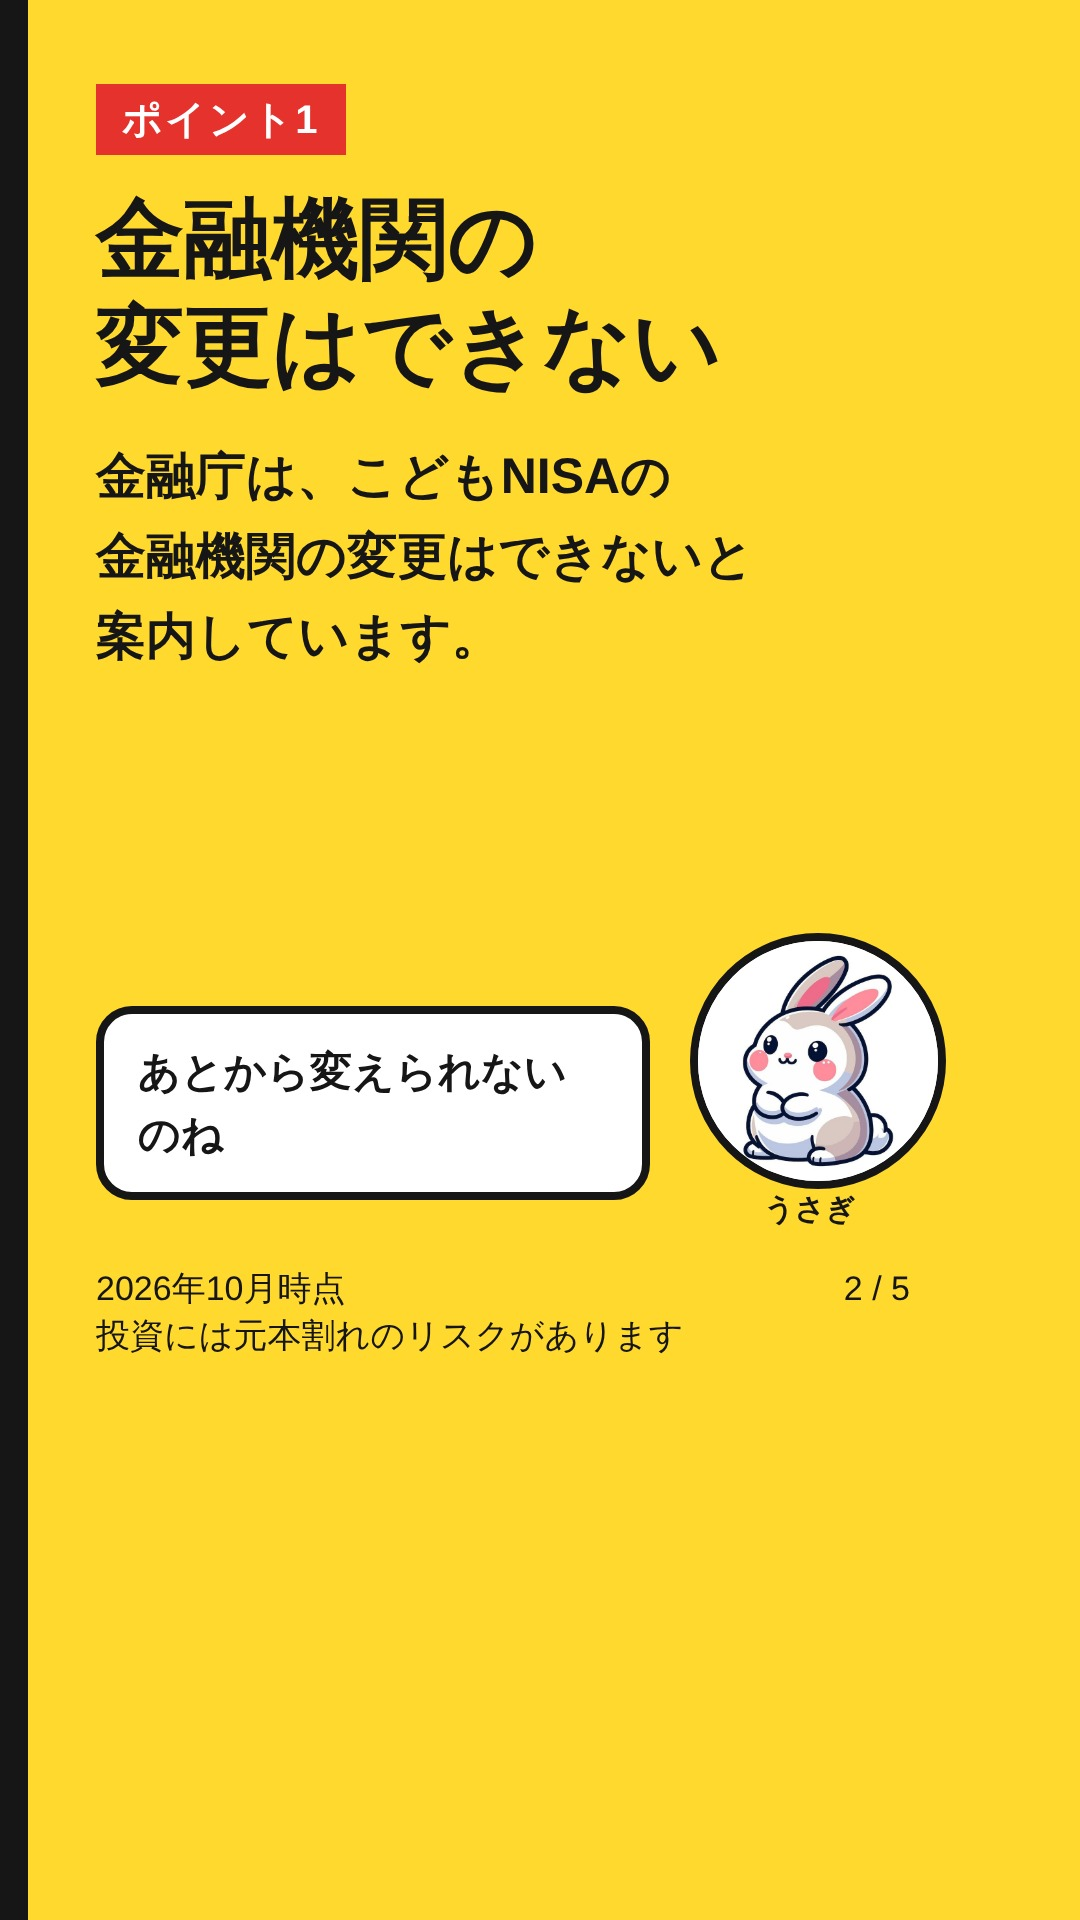
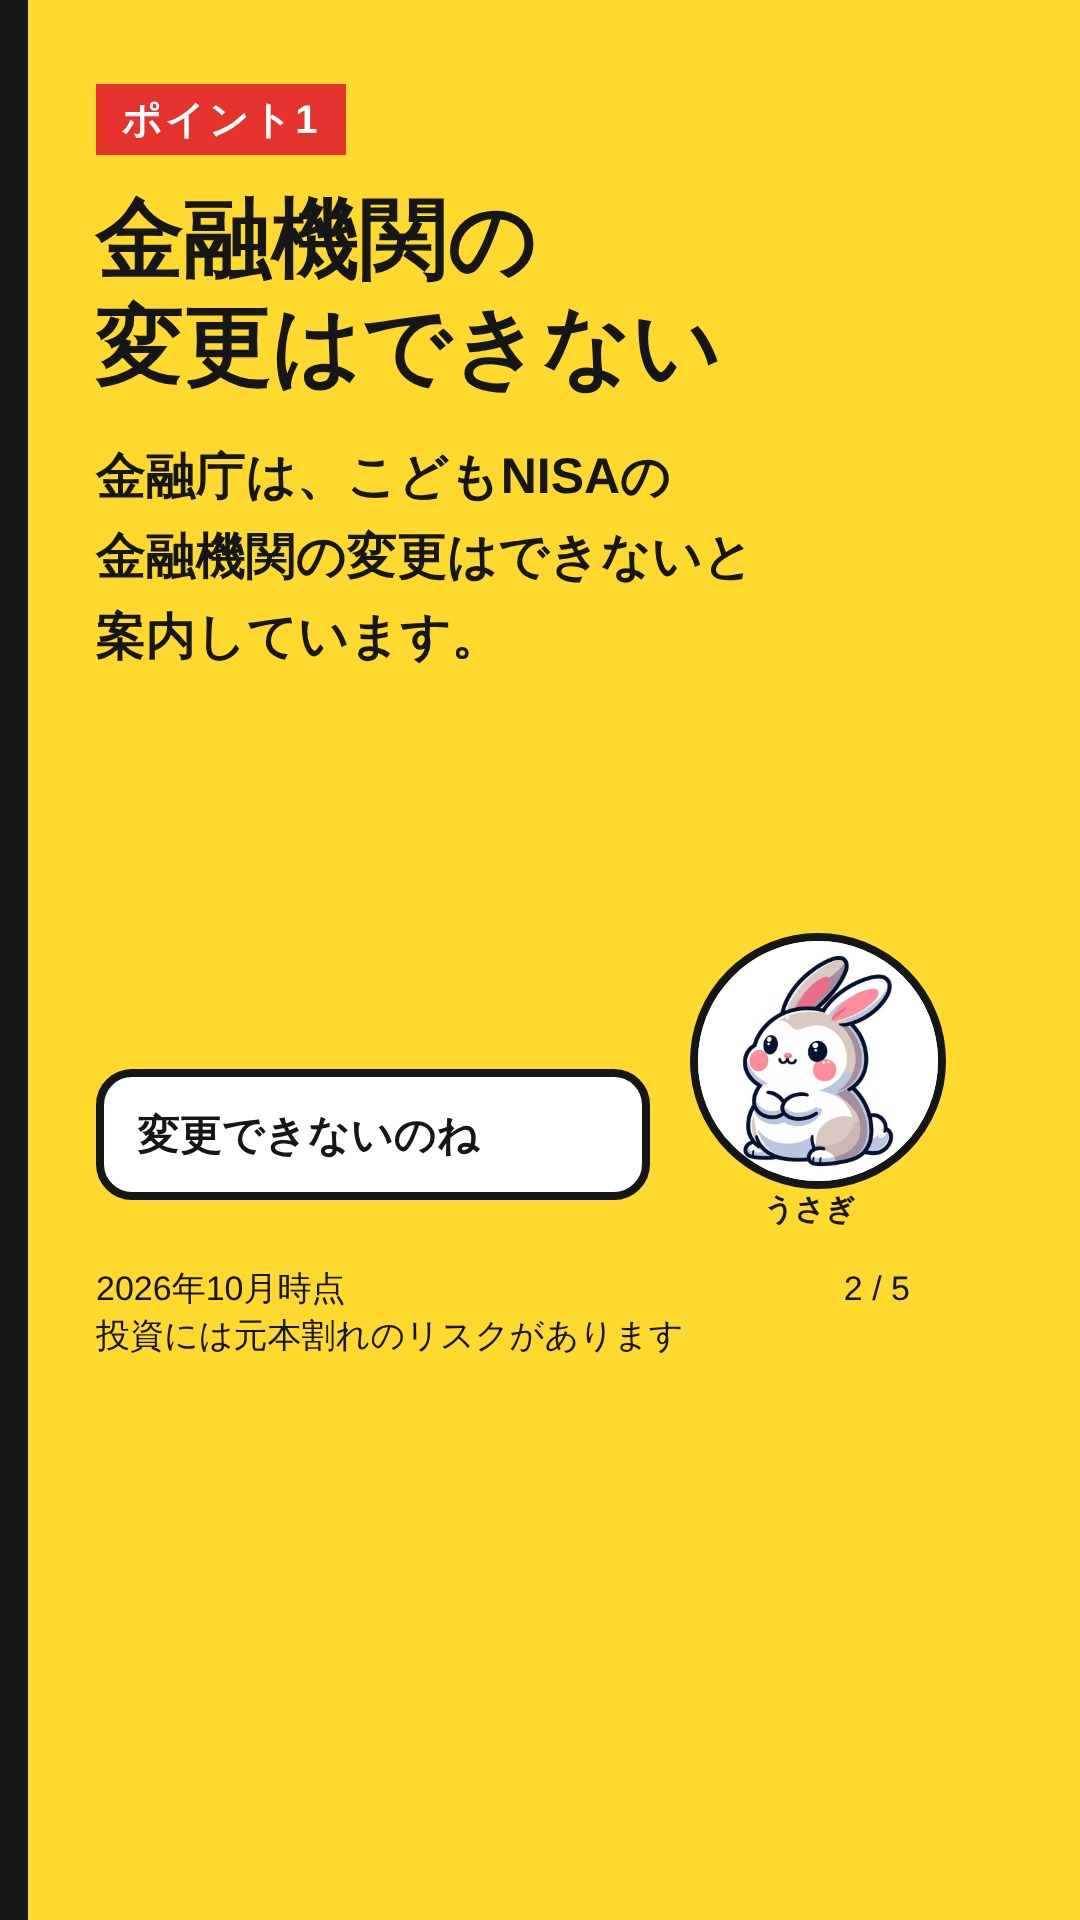
TikTok素材07: 途中改行を修正（第1回差し戻し対応、第2回検品待ち）
Claude-Session: https://claude.ai/code/session_01VtZwvrxLfi7dwTsRFrm2DW

Changed region(s): [[0.0611, 0.5, 0.6111, 0.625]]

diff --git a/reviews/tiktok-2026-10-18.md b/reviews/tiktok-2026-10-18.md
@@ -1,0 +1,60 @@
+# 検品: TikTok写真投稿 07 金融機関は変えられない？（第1回）
+- 検品日: 2026-10-18
+- 対象: posts/tiktok/07-kinyukikan/slide-01〜05.jpg、posts/tiktok/07-kinyukikan.json、narration-140.md「07」、captions.md「07」
+- 根拠: research/20261017-moushikomi-mae.md（1-1 金融庁「また、金融機関の変更はできません。」「口座は１人につき１口座のみ開設可能です。」）、docs/compliance.md、reviews/tiktok-2026-10-17.md
+- 判定: 【差し戻し】
+- スコア: A法令 OK ・ B事実 4/5 ・ C企画SEO 4/5 ・ D読みやすさ 3/5
+
+注: リンクなし・アフィリエイト要素なしのため、PR表記は不要（06と同じ扱い）。贈与税の話は出ていない（OK）。
+
+## 必須修正（差し戻し理由）
+| # | 該当箇所（引用） | 問題 | 修正案 |
+|---|---|---|---|
+| 1 | 2枚目の吹き出し「あとから変えられない／のね」（slide-02.jpg、吹き出し1行目が x≒565 で折れ、「のね」の2文字だけ2行目に落ちる。07-kinyukikan.json の say「あとから変えられないのね」） | 語尾の途中改行。06の第2回必須1（「変わるの／じゃ」）と同じ型の再発。「途中改行」は10/12、10/17と繰り返し指摘済みで、通せない | 1行に収まる短さにする。例「変えられないのね」「あとからは無理なのね」。または文節で「あとから／変えられないのね」と折る（文字サイズを下げてもよい） |
+| 2 | 5枚目の箇条書き4つ目「※特定の会社の推奨ではありま／せん」（slide-05.jpg、y≒800〜880。json の bullets 4つ目） | 「ありません」が「ありま／せん」で途中改行され、「せん」だけが次の行に残る。同じ型の再発。1行目も x≒885 で右端の目安（940）に近い | 短くして1行に収める。例「※特定の会社の推奨ではない」「※会社の推奨ではありません」。または「※特定の会社の／推奨ではありません」と文節で折る |
+
+## 前回指摘の確認
+| 前回の指摘 | 結果 |
+|---|---|
+| 途中改行 | 未解消（必須1・2）。1枚目「金融機関は／変えられない？」、2枚目の見出し・本文、3枚目、4枚目は文節で折れていて問題なし。 |
+| 下部UI・右端に文字がかからない | 解消。全5枚、フッターは y≒1270〜1350、吹き出し・キャラは y≒930〜1230、CTA（5枚目）は y≒1020〜1200で、下部UI領域（y≒1440以降）に重ならない。右端は、本文の最長（3枚目「…とされています。」x≒815）、5枚目の箇条書き（x≒885）とも940以内。 |
+| 「こどもNISA」の明記 | 解消。1枚目のタグ、2枚目の本文、キャプション、台本に入っている。 |
+| 元本割れの注記 | 解消。全5枚のフッターに「2026年10月時点」「投資には元本割れのリスクがあります」、キャプションにも同じ注記がある。 |
+| 誤字脱字 | なし（全5枚を目視確認）。 |
+
+## A 法令（OK）
+- 「No.1」「最安」などの最上級表現、利回り保証、個別商品・会社名の推奨、勧誘はない。5枚目に「特定の会社の推奨ではありません」の明記がある。
+- 「案内しています」（2枚目、金融庁）、「されています」（3枚目、台本、キャプション）で出典と留保がある。
+- 体験の捏造なし。吹き出しは感想で、体験談ではない。
+- 時点表記・元本割れ注記あり。リンクなし。
+- 親の口座の有無、他社の扱い、成人NISAの変更ルール（前年10/1〜9/30など）は書かれていない。research の「書けない／混ぜない」項目に触れていない（OK）。贈与税の話もない。
+
+## B 事実（4/5）
+- 「金融機関の変更はできない」は research 1-1（金融庁「また、金融機関の変更はできません。」）と一致。「口座は子ども1人につき1つ」は1-1（「口座は１人につき１口座のみ開設可能です。」）と一致。
+- 台本・キャプション・画像の3つの内容が一致している。
+- 減点: 4枚目「手数料や取扱商品は、会社ごとに違います」は一般論で、research に個別の出典がない。断定の言い方なので、「違います」を「違うことがあります」にするか、research に各社の公式ページの出典を足すこと（合否には影響しない）。
+
+## C 企画SEO（4/5）
+- 「こどもNISAの金融機関は変えられるか」に、1枚目の問いと2枚目の結論で答えている。保存導線（5枚目）あり。
+- 台本は約100字で、140字以内。キャプションは問い、結論、一般論（各社の公式で確認）、時点、元本割れ、ハッシュタグ（#こどもNISA ほか）の構成で、内容に合う。
+- 減点: 「変更できないから最初の1社が大事」という方針は伝わるが、選ぶ観点（何を比べるか）は「手数料・取扱商品」の2点のみで、やや薄い。research の範囲を超えないなら、「選ぶ前に公式で確認」を軸にしている現状で問題ない。必須にはしない。
+
+## D 読みやすさ（3/5）
+- 結論ファースト、1枚1論点で分かりやすい。
+- 減点は必須1・2（途中改行）による。
+
+## 推奨修正（合格を妨げない）
+- 5枚目の箇条書きに「こどもNISA」の語がない。保存して見返したときに何の話か分かるよう、見出しを「こどもNISAの最初の1社を／じっくり選ぶ」などにするとよい（行が長くなる場合は、改行位置に注意）。
+- 3枚目の吹き出し「最初の1社が大事じゃ」は、特定の会社への誘導ではないので問題ないが、「選ぶ前に確認が大事じゃ」のほうが、4枚目の「公式で比べましょう」とつながる。
+- 4枚目の「比べましょう」に対し、5枚目の箇条書きは「各社で確認」。「確認」に表記をそろえるとよい。
+- 左端の黒い縞（約28px）。全シリーズ共通のデザインのため、06と同様、シリーズ全体で見直す際にまとめて対応する。
+- 1枚目の y≒480〜900 の空白（06と同じ指摘）。
+
+## 良かった点
+- 前回までの指摘のうち、下部UI・右端、「こどもNISA」明記、元本割れ・時点の注記は、すべて守られている。
+- 金融庁の記述の範囲に収めている。親の口座、他社の扱い、成人NISAの変更手続きを混ぜていない。
+- 「特定の会社の推奨ではありません」を5枚目に入れている。リンクなしで方針どおり。
+
+## 次の対応
+- 修正が必要なのは、2枚目（slide-02.jpg）の吹き出しと、5枚目（slide-05.jpg）の箇条書き4つ目の2か所だけ。他の3枚（1・3・4枚目）は変更しないこと。
+- writer が2枚だけ作り直し、再検品（2回目）に出す。再検品では、全5枚を目視で再確認し、作り直しで別の行が折れていないか（06の第2回の再発パターン）を必ず確認する。
